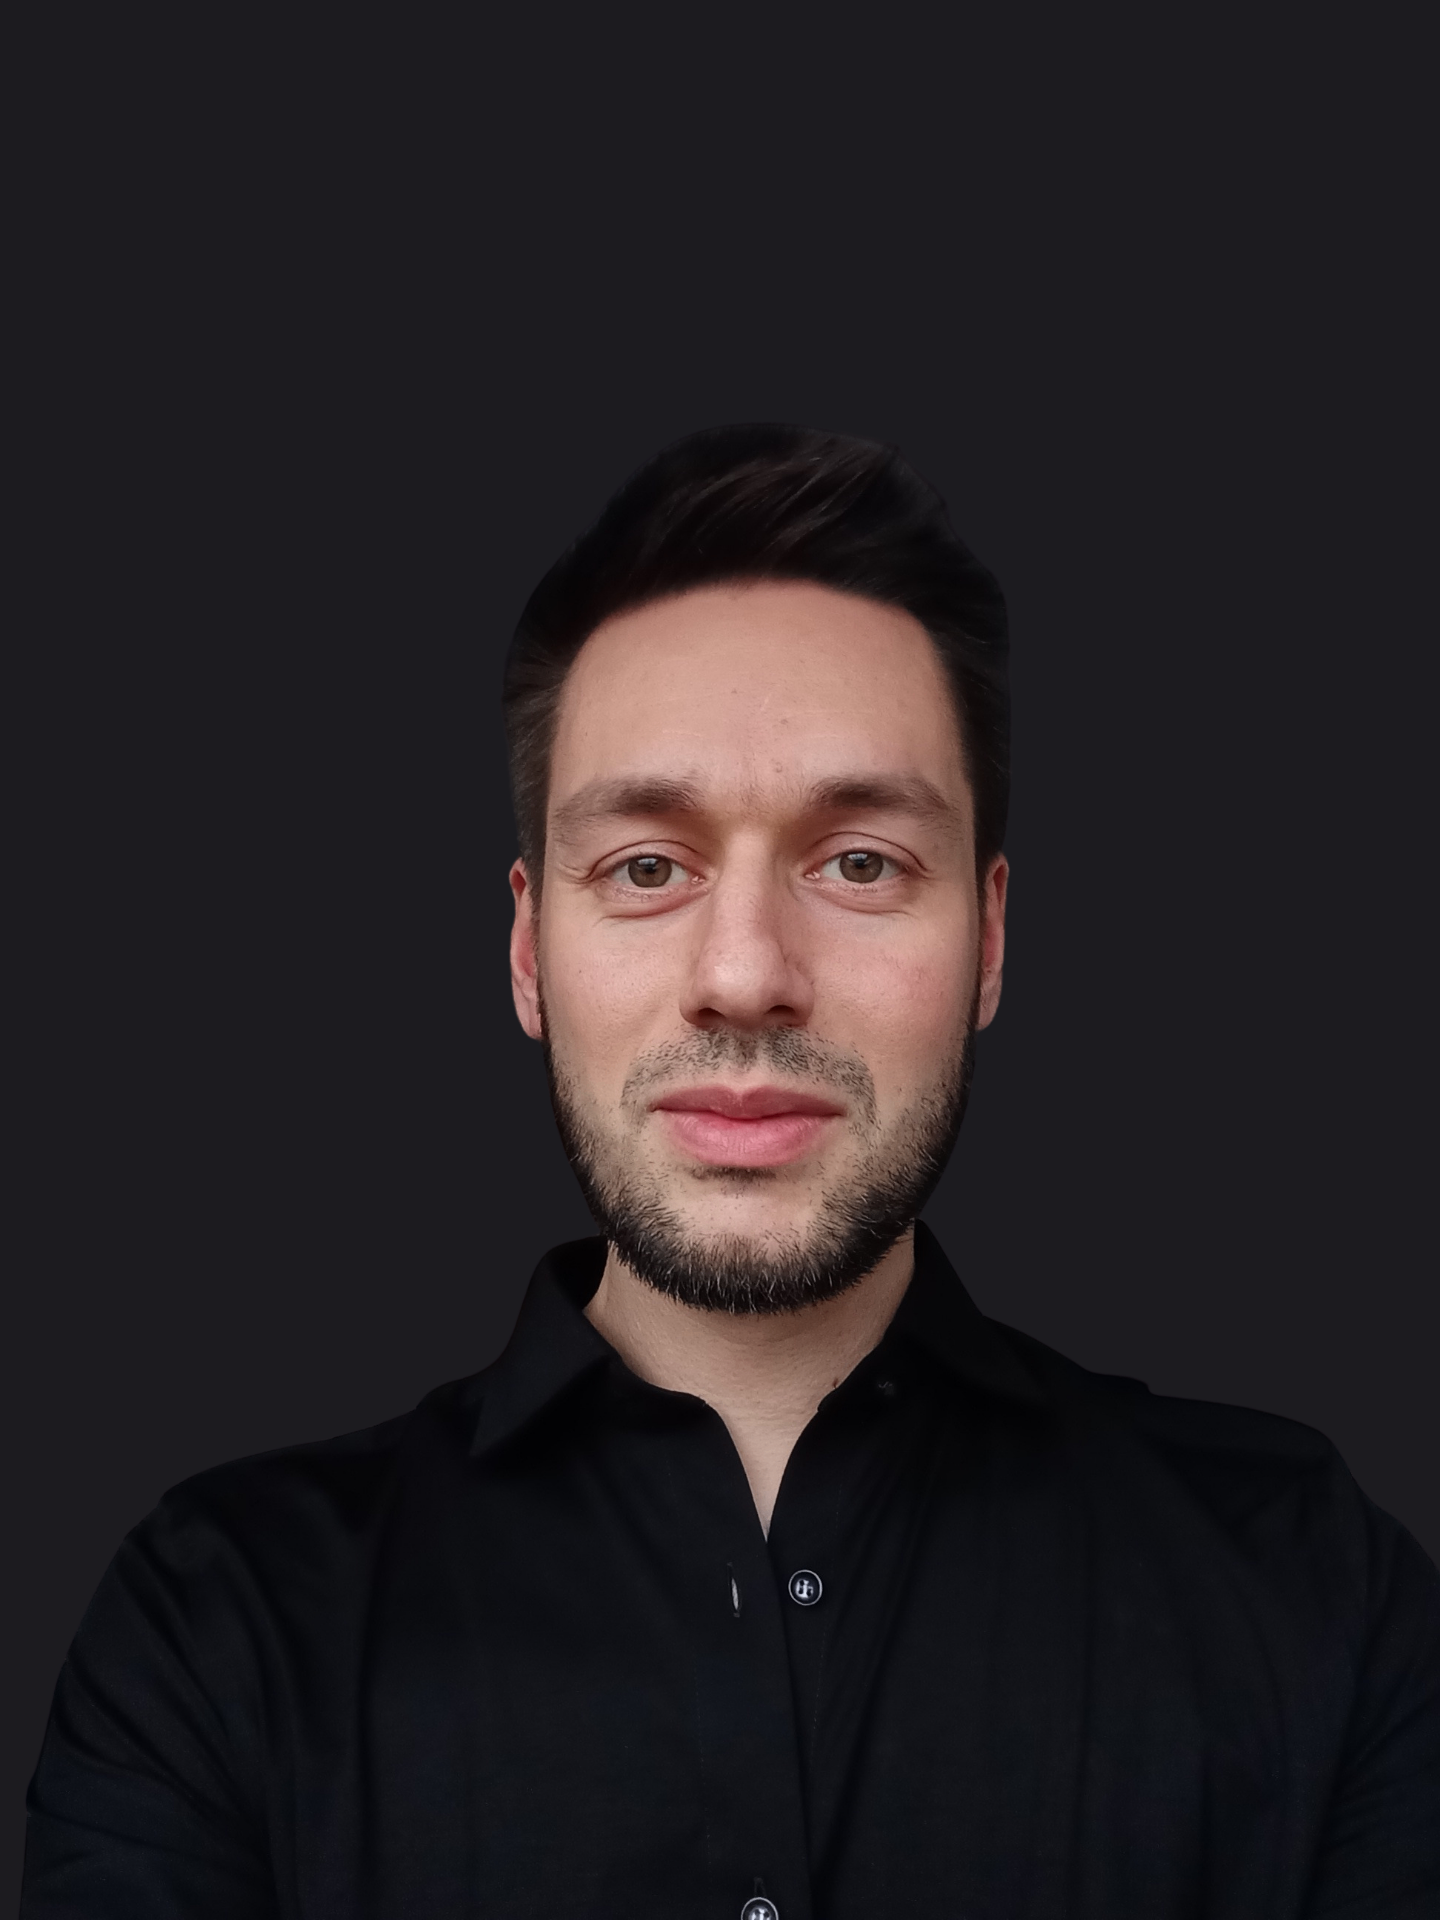
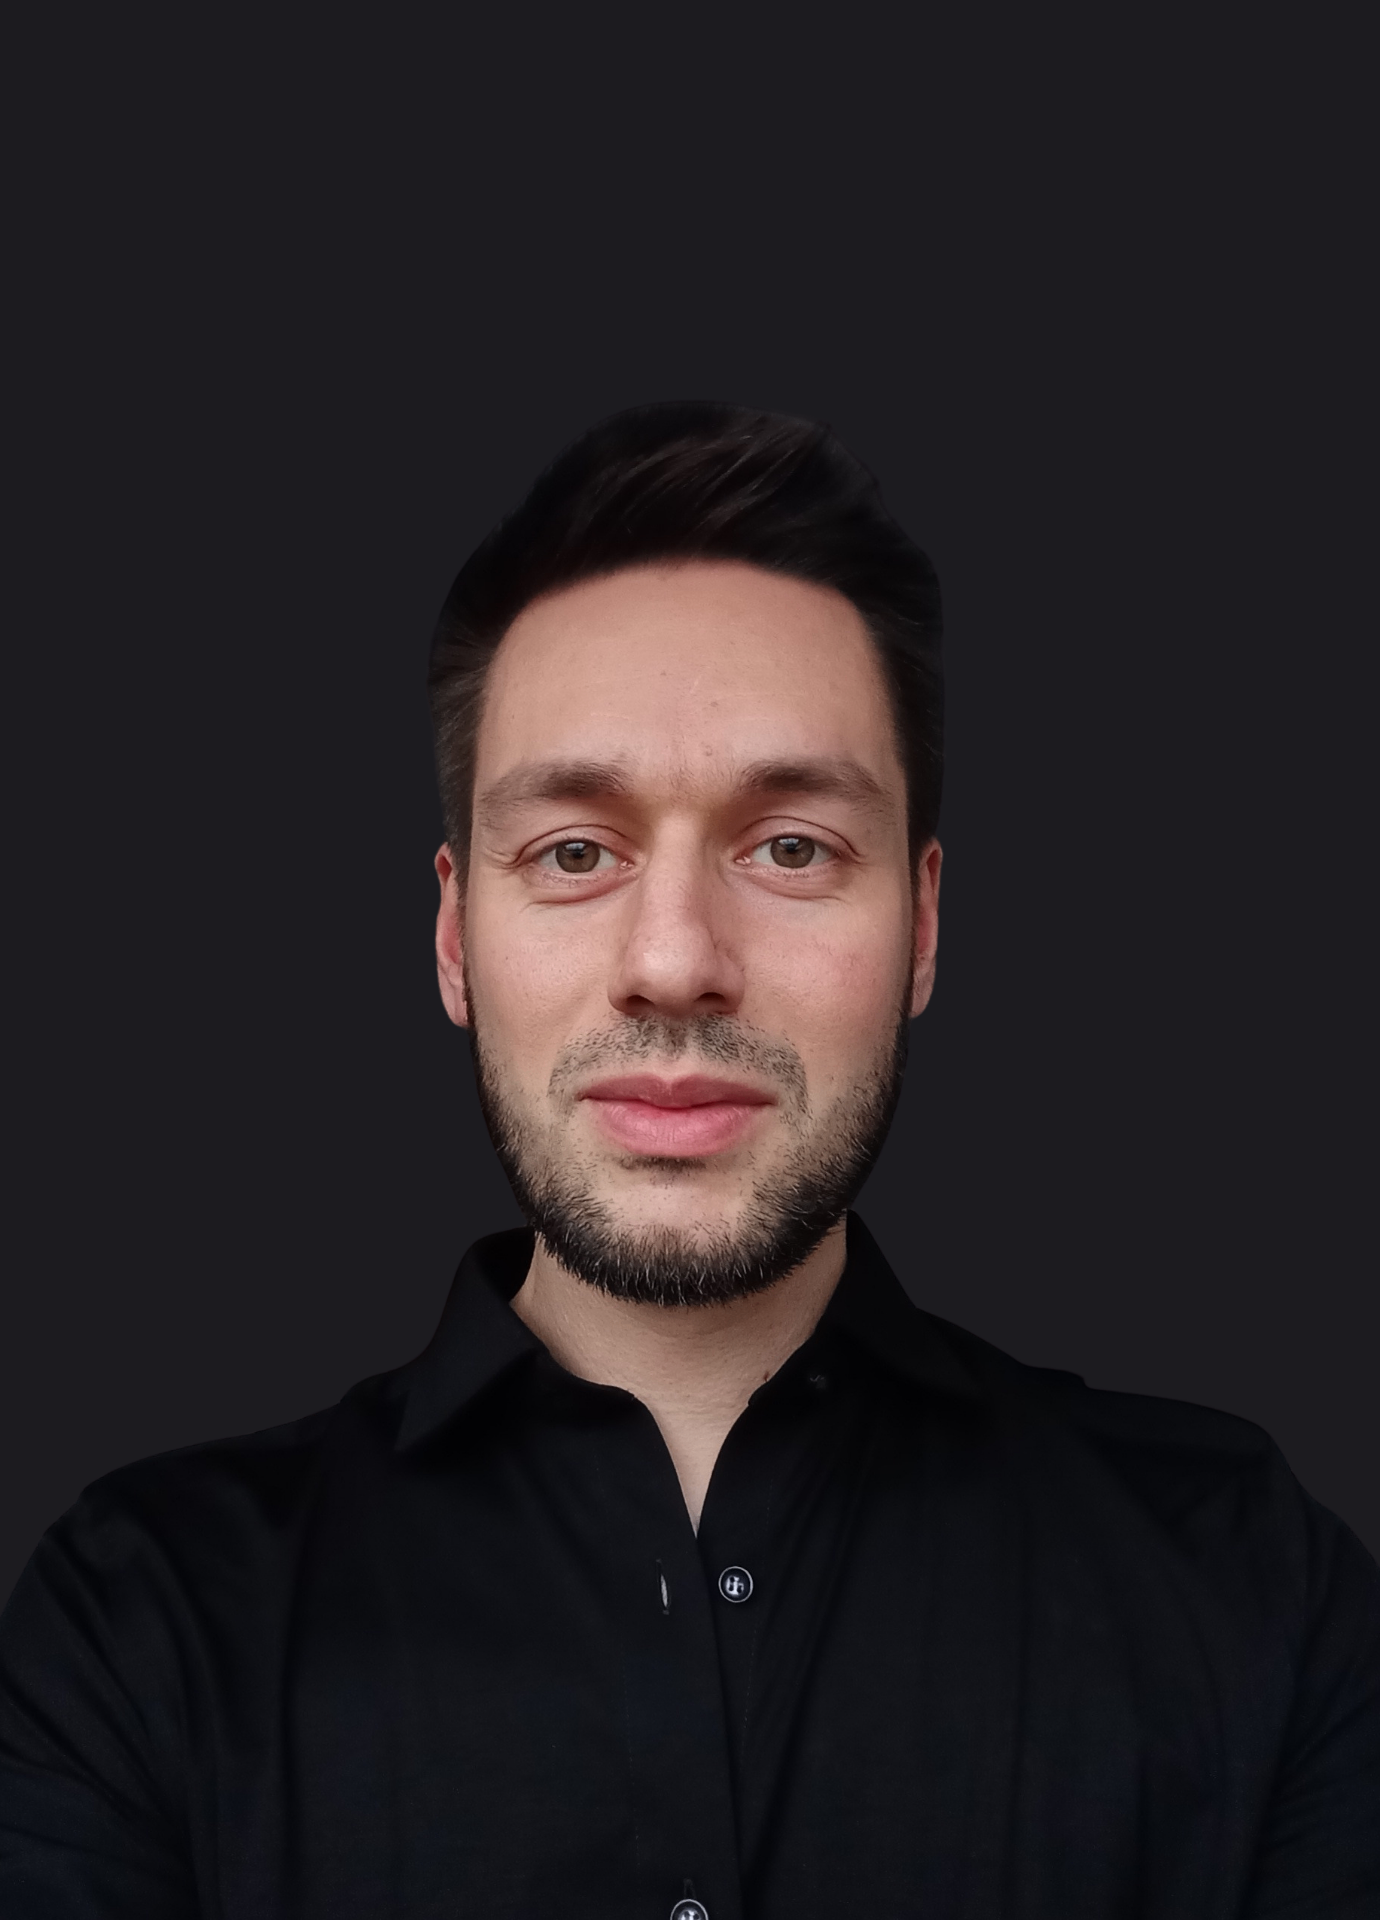
Changes

Changed region(s): [[0.3116, 0.2812, 0.7167, 0.8438], [0.4986, 0.9688, 0.5297, 1.0]]

diff --git a/src/pages/UeberMich.tsx b/src/pages/UeberMich.tsx
@@ -19,7 +19,7 @@ const UeberMich = () => {
               <img 
                 src={profilBild} 
                 alt="Jona Fels - Coach" 
-                className="w-48 h-48 md:w-56 md:h-56 rounded-full object-cover object-[40%_center] mx-auto shadow-lg border-4 border-secondary/30"
+                className="w-48 h-48 md:w-56 md:h-56 rounded-full object-cover object-center mx-auto shadow-lg border-4 border-secondary/30"
               />
             </div>
             <h1 className="font-serif text-3xl md:text-4xl lg:text-5xl font-semibold text-foreground mb-4">
